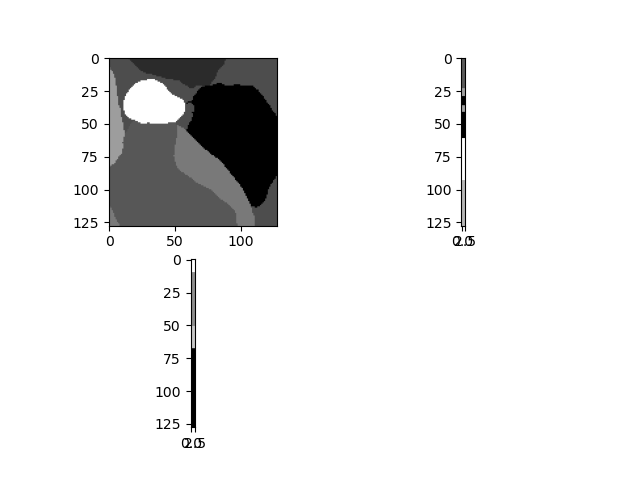
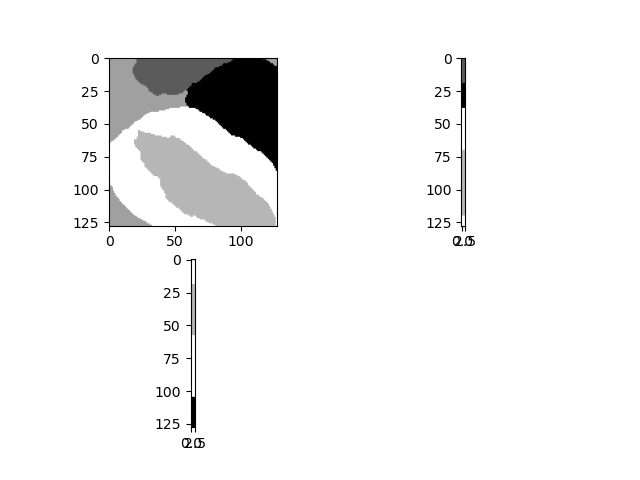
Test metrics update

diff --git a/models/cycle_gan_model.py b/models/cycle_gan_model.py
@@ -68,7 +68,7 @@ class CycleGANModel(BaseModel):
         # specify the models you want to save to the disk. The training/test scripts will call <BaseModel.save_networks> and <BaseModel.load_networks>.
         if self.isTrain:
             self.model_names = ['G_A', 'G_B', 'D_A', 'D_B', 'S_A', 'S_B']
-        else:  # during test time, only load Gs
+        else:  # during test time, only load Gs and Ss
             self.model_names = ['G_A', 'G_B', 'S_A', 'S_B']
 
         # define networks (both Generators and discriminators)
@@ -133,7 +133,6 @@ class CycleGANModel(BaseModel):
         self.rec_A = self.netG_B(self.fake_B)       # G_B(G_A(A))
         self.fake_A = self.netG_B(self.real_B)      # G_B(B)
         self.rec_B = self.netG_A(self.fake_A)       # G_A(G_B(B))
-        # TODO: Add real segmentation of real A\B???
         # self.seg_fake_B = self.netS_B(self.fake_B)  # S{G_A(A), Y_A}
         # self.seg_rec_A = self.netS_A(self.rec_A)    # S{G_B(G_A(A)), Y_A}
         # self.seg_fake_A = self.netS_A(self.fake_A)  # S{G_B(B), Y_B}
@@ -214,15 +213,11 @@ class CycleGANModel(BaseModel):
 
     def backward_S(self):
         """Calculate the loss for segmentors S_A and S_B"""
-        # lambda_A = self.opt.lambda_A
-        # lambda_B = self.opt.lambda_B
         self.loss_S_A = self.seg_loss(self.seg_A, self.ground_truth_seg_A)
         self.loss_S_B = self.seg_loss(self.seg_B, self.ground_truth_seg_B)
         # self.loss_S_AB = self.seg_loss(self.seg_fake_A, self.ground_truth_seg_B)
         # self.loss_S_BA = self.seg_loss(self.seg_fake_B, self.ground_truth_seg_A)
-        # self.loss_S_rec_A = self.seg_loss(self.seg_rec_A, self.ground_truth_seg_A)
-        # self.loss_S_rec_B = self.seg_loss(self.seg_rec_B, self.ground_truth_seg_B)
-        # self.loss_S = self.loss_S_A + self.loss_S_B + self.loss_S_AB + self.loss_S_BA + self.loss_S_rec_A + self.loss_S_rec_B
+
         self.loss_S = self.loss_S_A + self.loss_S_B
         # combined loss and calculate gradients
         self.loss_S.backward()
@@ -233,8 +228,7 @@ class CycleGANModel(BaseModel):
         self.seg_B = self.seg_B.argmax(dim=1, keepdim=True)
         # self.seg_fake_A = self.seg_fake_A.argmax(dim=1, keepdim=True)
         # self.seg_fake_B = self.seg_fake_B.argmax(dim=1, keepdim=True)
-        # self.seg_rec_A = self.seg_rec_A.argmax(dim=1, keepdim=True)
-        # self.seg_rec_B = self.seg_rec_B.argmax(dim=1, keepdim=True)
+
         
 
     def optimize_parameters(self):
@@ -261,17 +255,4 @@ class CycleGANModel(BaseModel):
         self.backward_S()             # calculate gradients for S_A and S_B
         self.optimizer_S.step()       # update S_A and S_B's weights
         self.get_segmentation_by_max() #change the segmentation to (B,1,H,W,D) instead (B,8,H,W,D)
-
-        # labels_translate = [0, 205, 420, 500, 550, 600, 820, 850]
-
-        # change labels back to original values
-        # for i in range(len(labels_translate)):
-            # self.ground_truth_seg_A[self.ground_truth_seg_A == i] = labels_translate[i]
-            # self.ground_truth_seg_B[self.ground_truth_seg_B == i] = labels_translate[i]
-            # self.seg_A[self.seg_A == i] = labels_translate[i]
-            # self.seg_B[self.seg_B == i] = labels_translate[i]
-            # self.seg_fake_A[self.seg_fake_A == i] = labels_translate[i]
-            # self.seg_fake_B[self.seg_fake_B == i] = labels_translate[i]
-            # self.seg_rec_A[self.seg_rec_A == i] = labels_translate[i]
-            # self.seg_rec_A[self.seg_rec_A == i] = labels_translate[i]
 

diff --git a/test.py b/test.py
@@ -31,9 +31,10 @@ from options.test_options import TestOptions
 from data import create_dataset
 from models import create_model
 from util.visualizer import save_images
-from util import html
-import sklearn
+from util import util, html
+import sklearn.metrics
 import numpy
+
 
 if __name__ == '__main__':
     opt = TestOptions().parse()  # get test options
@@ -59,25 +60,33 @@ if __name__ == '__main__':
         model.eval()
 
     scores = {}
+    labels_translate = [0, 205, 420, 500, 550, 600, 820, 850]
 
     for i, data in enumerate(dataset):
-        print('This is image numero %s' % i)
         if i >= opt.num_test:  # only apply our model to opt.num_test images.
             break
         model.set_input(data)  # unpack data from data loader
         model.test()           # run inference
         visuals = model.get_current_visuals()  # get image results
         img_path = model.get_image_paths()     # get image paths
+        
+        if i % 1 == 0:  # save images to an HTML file
+            print('processing (%04d)-th image... %s' % (i, img_path))
+            save_images(webpage, visuals, img_path, aspect_ratio=opt.aspect_ratio, width=opt.display_winsize)
+
         # Calculate metrics
         for dir in ["A", "B"]:
-            metric = sklearn.metrics.f1_score(visuals["ground_truth_seg_" + dir], visuals["seg_" + dir])
+            seg = util.tensor2im(visuals["seg_" + dir].cpu())
+            truth = util.tensor2im(visuals["ground_truth_seg_" + dir].cpu())
+            # change labels back to original values
+            for i in range(len(labels_translate)):
+                seg[seg == i] = labels_translate[i]
+            metric = sklearn.metrics.f1_score(truth, seg)
             if dir in scores:
                 scores[dir] = numpy.concatenate(scores[dir], numpy.array([metric]))
             else:
                 scores[dir] = numpy.array([metric])
-        if i % 1 == 0:  # save images to an HTML file
-            print('processing (%04d)-th image... %s' % (i, img_path))
-        save_images(webpage, visuals, img_path, aspect_ratio=opt.aspect_ratio, width=opt.display_winsize)
+
     webpage.save()  # save the HTML
     print("-"*50)
     print("-"*20 + "Detaild scores:" + "-"*20)

diff --git a/models/base_model.py b/models/base_model.py
@@ -199,9 +199,9 @@ class BaseModel(ABC):
                     del state_dict._metadata
 
                 # patch InstanceNorm checkpoints prior to 0.4
-                if name in ["S_A", "S_B"]:
-                    for key in list(state_dict.keys()):  # need to copy keys here because we mutate in loop
-                      self.__patch_instance_norm_state_dict(state_dict, net, key.split('.'))
+                # if name in ["S_A", "S_B"]:
+                    # for key in list(state_dict.keys()):  # need to copy keys here because we mutate in loop
+                    #   self.__patch_instance_norm_state_dict(state_dict, net, key.split('.'))
                 net.load_state_dict(state_dict, strict=False)
 
 
